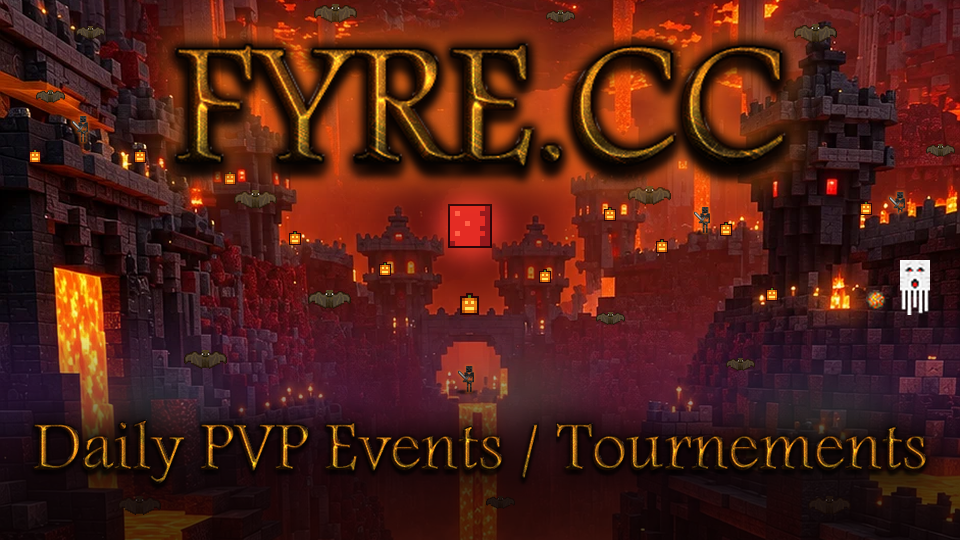
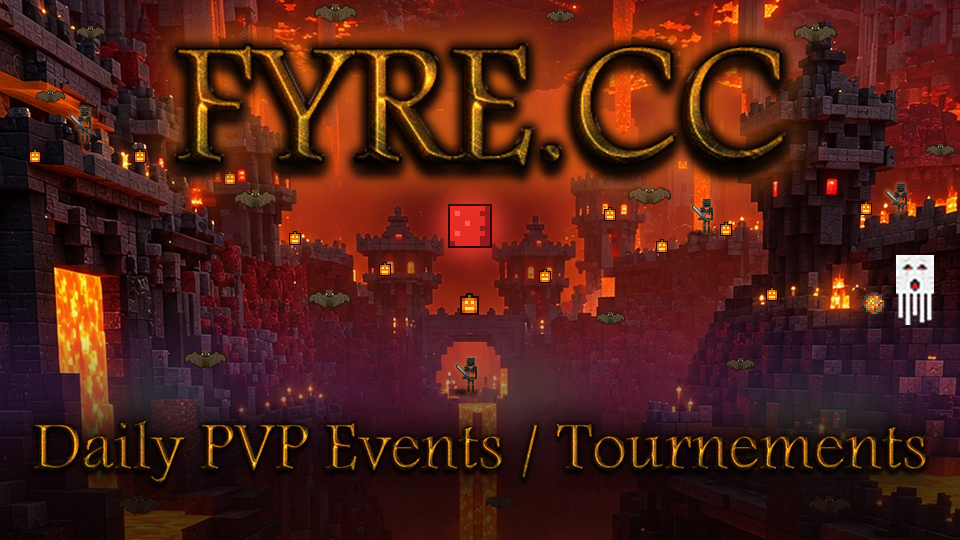
Make the ghast, fireball and wither skeletons bigger
Claude-Session: https://claude.ai/code/session_01LPehDgsXCVDFiYqWq7LdDj

diff --git a/branding/fyre/halloween.py b/branding/fyre/halloween.py
@@ -146,11 +146,11 @@ def scene(base):
     # bats in the bright sky bands (x, y, scale)
     # (x, feet y, parapet top y or None for an open ledge)
     for x, y, wall in ((80, 142, None), (466, 392, None), (702, 233, None), (897, 218, 212)):
-        mob(base, 'wither_skeleton', x*f, y*f, .8*f, anchor='bottom', rim=True,
+        mob(base, 'wither_skeleton', x*f, y*f, 1.05*f, anchor='bottom', rim=True,
             behind=wall*f if wall else None, shadow=wall is None)
     # the ghast shooting a fireball: open mouth, with the fireball flying out toward the castle
-    mob(base, 'ghast_shooting', 915*f, 288*f, 1.9*f)
-    mob(base, 'fireball', 876*f, 300*f, 1.7*f)
+    mob(base, 'ghast_shooting', 915*f, 290*f, 2.4*f)
+    mob(base, 'fireball', 874*f, 304*f, 2.0*f)
     # bats spread over the whole canvas (x, y, scale): top strip, edges, below the logo, canyon, bottom
     for x, y, s in ((90,32,.8), (335,14,1.2), (560,16,.8), (815,34,1.2), (50,96,.8), (940,150,.8),
                     (255,200,1.2), (650,196,1.2), (330,300,1.2), (610,318,.8), (205,360,1.2),
